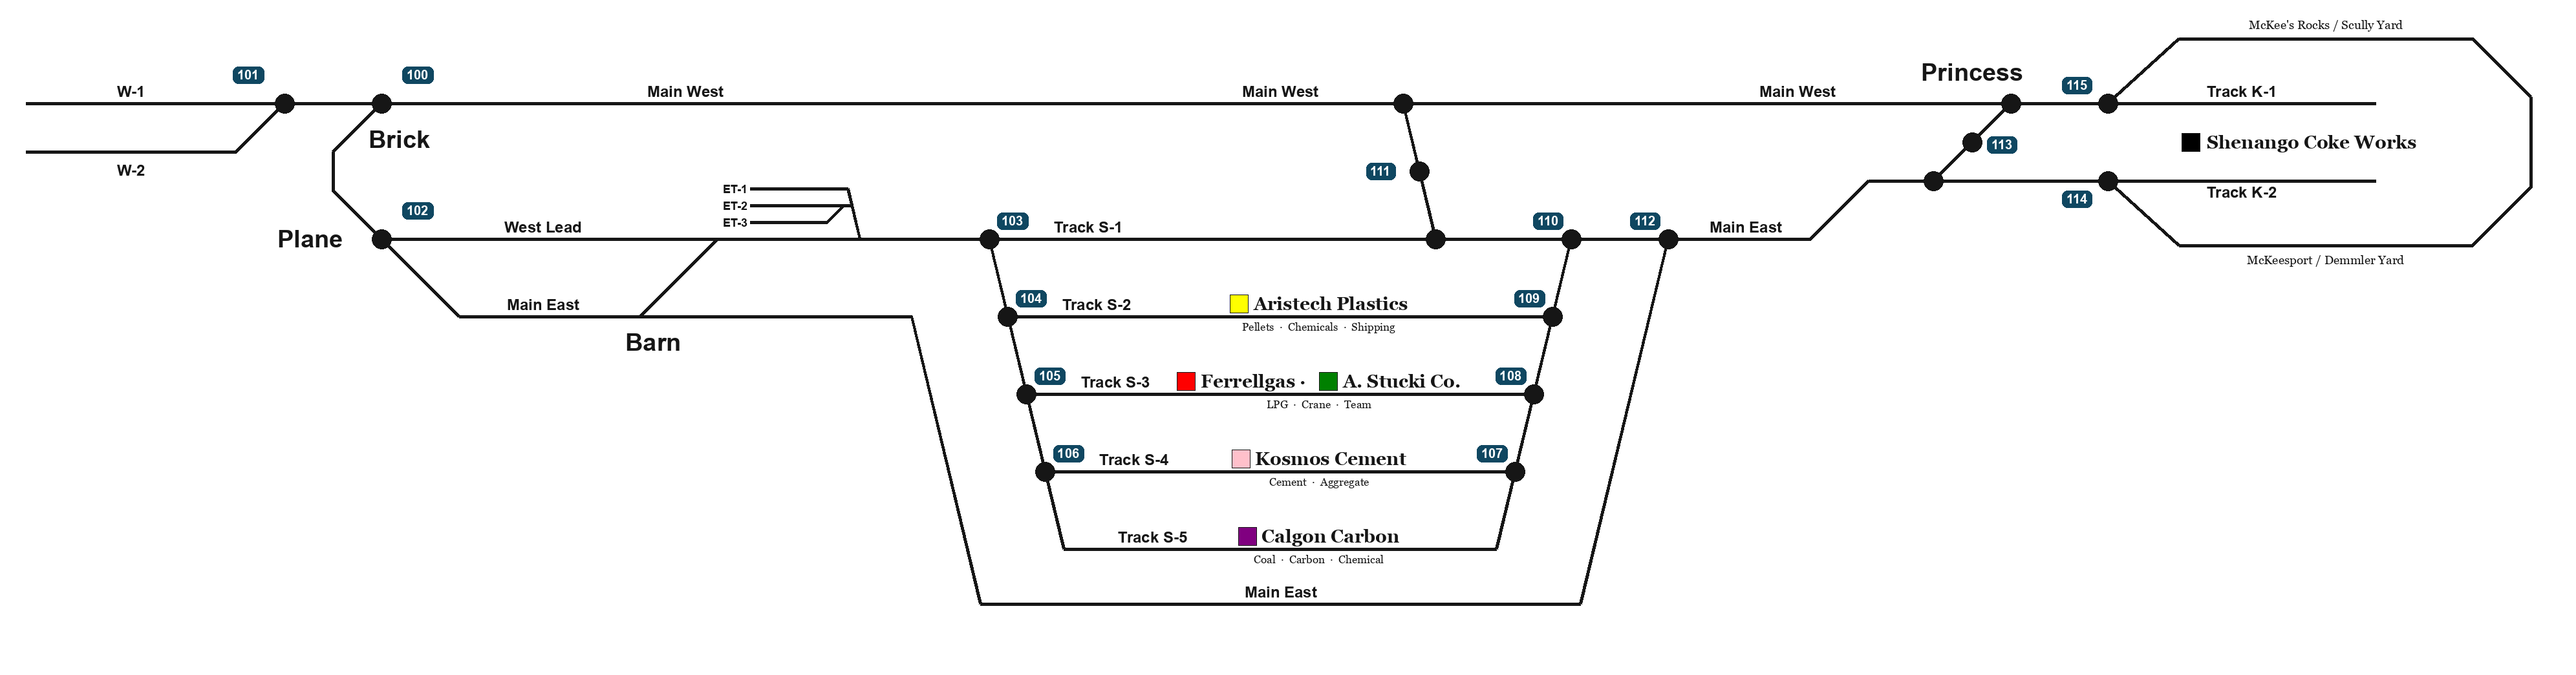
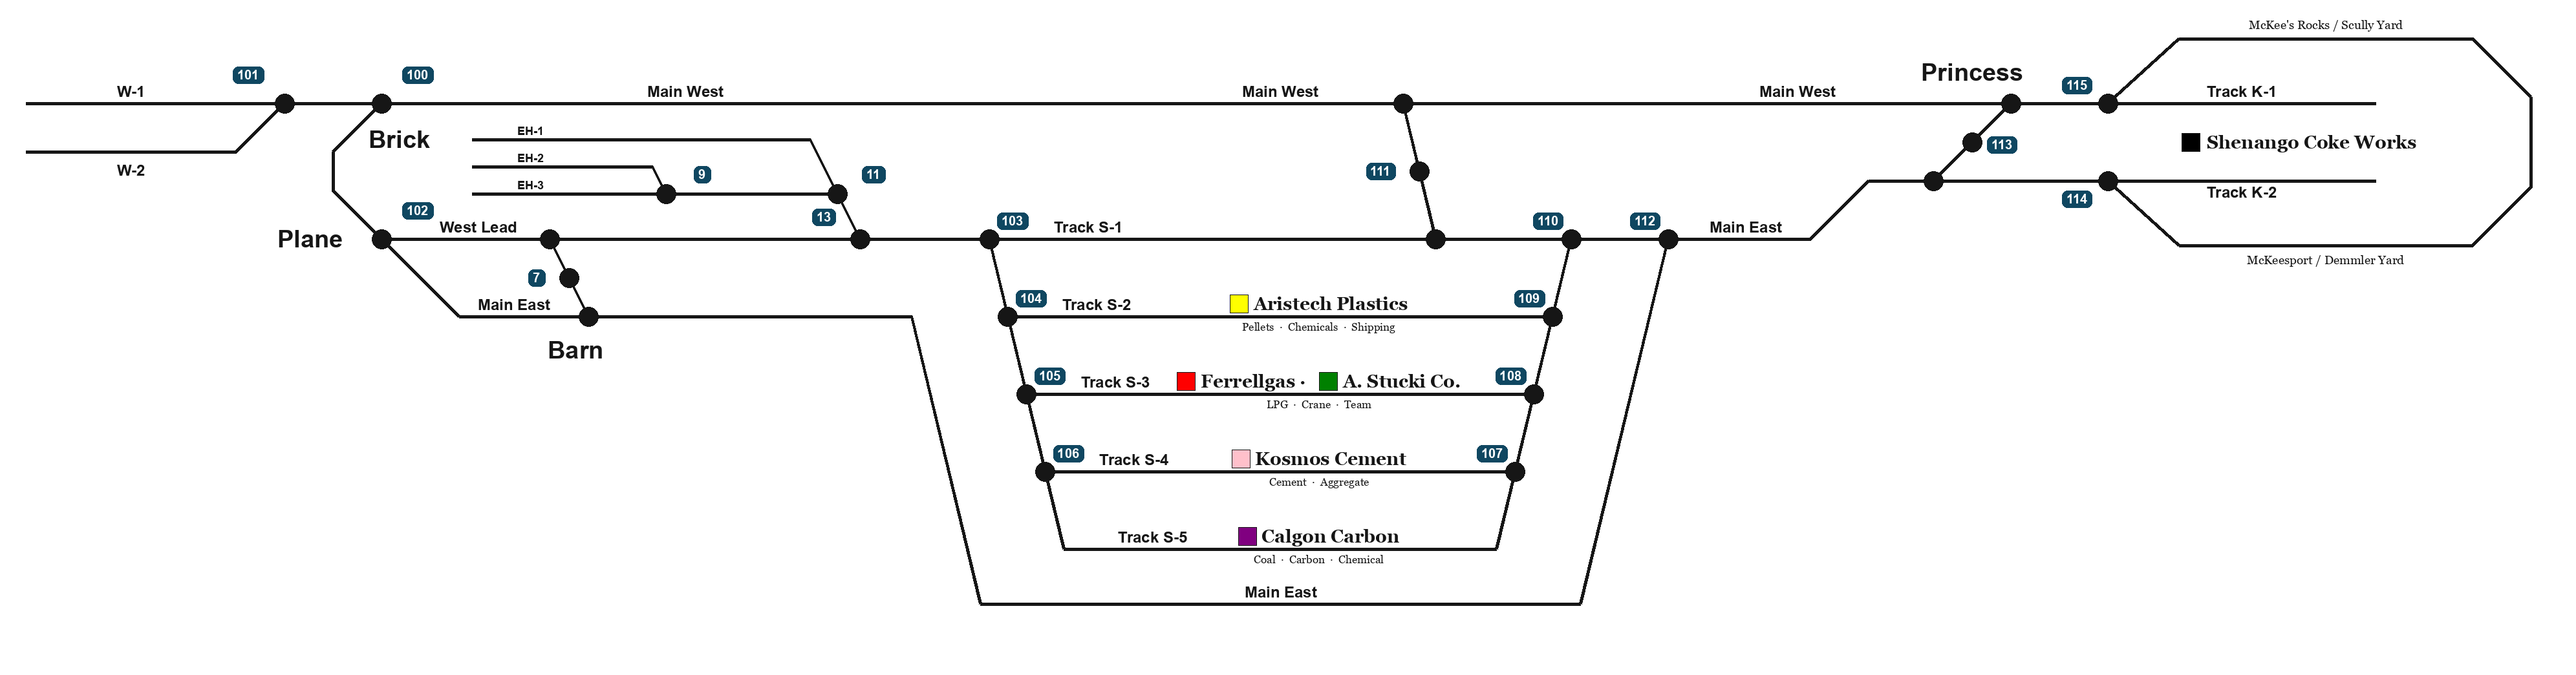
Draw the Barn on the stitched map as on its own sheet, with the switch 7, 9, 11 and 13 spots and EH-1 to EH-3, and link 110 to 112.

Changed region(s): [[0.1867, 0.245, 0.3424, 0.3675], [0.1867, 0.3981, 0.2801, 0.5512], [0.1867, 0.1837, 0.3112, 0.2144]]

diff --git a/ops/hart-ops/publications/rebuild_station_map_full.py b/ops/hart-ops/publications/rebuild_station_map_full.py
@@ -64,8 +64,6 @@ def main() -> None:
     x101 = 440
     xb = x101 + 150  # Brick
     s_leg, vert = 75, 60  # Brick lead: down-left, down, down-right to Plane
-    barn_bot_x = xb + 400
-    barn_top_x = barn_bot_x + 120
     takeoff_x = xb + 740
     x103 = takeoff_x + 200
     turn_x = x103 - 120  # Main East leaves its high row
@@ -134,31 +132,43 @@ def main() -> None:
     line((x110, S[0]), (x112, S[0]))  # S-1 links 110 to 112
     line(plane, me_corner)
     line(me_corner, (turn_x, me_hi))
-    lab((xb + 250, S[0] - 18), "West Lead", track_font)
-    lab((xb + 250, me_hi - 18), "Main East", track_font)
+    lab((xb + 150, S[0] - 18), "West Lead", track_font)
+    lab((xb + 205, me_hi - 18), "Main East", track_font)
 
-    # Barn crossover
-    line((barn_top_x, S[0]), (barn_bot_x, me_hi))
-    lab((barn_bot_x + 20, me_hi + 40), "Barn", cp_font)
+    # ── Barn (SM-06): switch 7 crossover, 13 / 11 / 9, EH-1 to EH-3 ─────
+    x7 = xb + 260
+    sw7_top = (x7, S[0])
+    sw7_bot = (x7 + (me_hi - S[0]) * 0.5, me_hi)
+    sw7_mid = ((sw7_top[0] + sw7_bot[0]) / 2, (sw7_top[1] + sw7_bot[1]) / 2)
+    line(sw7_top, sw7_bot)
+    for p in (sw7_top, sw7_mid, sw7_bot):
+        dot(p)
+    badge((sw7_mid[0] - 50, sw7_mid[1]), "7")
+    lab((sw7_mid[0] + 10, me_hi + 52), "Barn", cp_font)
 
-    # ── South Yard ───────────────────────────────────────────────────────
-    # Engine terminal ladder off the West Lead
-    gap = 26
-    et = {3: S[0] - gap, 2: S[0] - 2 * gap, 1: S[0] - 3 * gap}
+    eh = {3: S[0] - 70, 2: S[0] - 112, 1: S[0] - 154}
+    x_eh = xb + 140
 
-    def et_x(y):
-        return takeoff_x - (S[0] - y) * K
+    def up_left(p, y):
+        return (p[0] + 0.5 * (y - p[1]), y)
 
-    line((takeoff_x, S[0]), (et_x(et[1]), et[1]))
-    stub_end = takeoff_x - 170
-    for n in (1, 2):
-        line((et_x(et[n]), et[n]), (stub_end, et[n]))
-        lab((stub_end - 4, et[n]), f"ET-{n}", et_font, "rm")
-    spur = (et_x(et[2]) - 12, et[2])
-    et3x = spur[0] - gap
-    line(spur, (et3x, et[3]))
-    line((et3x, et[3]), (stub_end, et[3]))
-    lab((stub_end - 4, et[3]), "ET-3", et_font, "rm")
+    sw13 = (takeoff_x, S[0])
+    sw11 = up_left(sw13, eh[3])
+    eh1_join = up_left(sw13, eh[1])
+    sw9 = (takeoff_x - 300, eh[3])
+    eh2_join = up_left(sw9, eh[2])
+    line((x_eh, eh[1]), eh1_join)
+    line((x_eh, eh[2]), eh2_join)
+    line((x_eh, eh[3]), sw11)
+    line(sw13, eh1_join)
+    line(eh2_join, sw9)
+    for p in (sw13, sw11, sw9):
+        dot(p)
+    badge((sw13[0] - 56, S[0] - 34), "13")
+    badge((sw11[0] + 56, sw11[1] - 30), "11")
+    badge((sw9[0] + 56, sw9[1] - 30), "9")
+    for n in (1, 2, 3):
+        lab((x_eh + 70, eh[n] - 14), f"EH-{n}", et_font, "lm")
 
     # Yard ladder 103-106 (down-right)
     top = (x103, S[0])

diff --git a/ops/hart-ops/publications/rebuild_station_map_full_square.py b/ops/hart-ops/publications/rebuild_station_map_full_square.py
@@ -63,8 +63,6 @@ def main() -> None:
     x101 = 330
     xb = x101 + 150  # Brick
     s_leg, vert = 75, 60
-    barn_bot_x = xb + 340
-    barn_top_x = barn_bot_x + 120
     takeoff_x = xb + 640
     x103 = takeoff_x + 170
     turn_x = x103 - 120
@@ -131,29 +129,43 @@ def main() -> None:
     line((x110, S[0]), (x112, S[0]))  # S-1 links 110 to 112
     line(plane, me_corner)
     line(me_corner, (turn_x, me_hi))
-    lab((xb + 220, S[0] - 18), "West Lead", track_font)
-    lab((xb + 200, me_hi - 18), "Main East", track_font)
+    lab((xb + 150, S[0] - 18), "West Lead", track_font)
+    lab((xb + 205, me_hi - 18), "Main East", track_font)
 
-    line((barn_top_x, S[0]), (barn_bot_x, me_hi))
-    lab((barn_bot_x + 20, me_hi + 40), "Barn", cp_font)
+    # ── Barn (SM-06): switch 7 crossover, 13 / 11 / 9, EH-1 to EH-3 ─────
+    x7 = xb + 260
+    sw7_top = (x7, S[0])
+    sw7_bot = (x7 + (me_hi - S[0]) * 0.5, me_hi)
+    sw7_mid = ((sw7_top[0] + sw7_bot[0]) / 2, (sw7_top[1] + sw7_bot[1]) / 2)
+    line(sw7_top, sw7_bot)
+    for p in (sw7_top, sw7_mid, sw7_bot):
+        dot(p)
+    badge((sw7_mid[0] - 50, sw7_mid[1]), "7")
+    lab((sw7_mid[0] + 10, me_hi + 52), "Barn", cp_font)
 
-    # ── South Yard ───────────────────────────────────────────────────────
-    gap = 26
-    et = {3: S[0] - gap, 2: S[0] - 2 * gap, 1: S[0] - 3 * gap}
+    eh = {3: S[0] - 70, 2: S[0] - 112, 1: S[0] - 154}
+    x_eh = xb + 140
 
-    def et_x(y):
-        return takeoff_x - (S[0] - y) * K
+    def up_left(p, y):
+        return (p[0] + 0.5 * (y - p[1]), y)
 
-    line((takeoff_x, S[0]), (et_x(et[1]), et[1]))
-    stub_end = takeoff_x - 150
-    for n in (1, 2):
-        line((et_x(et[n]), et[n]), (stub_end, et[n]))
-        lab((stub_end - 4, et[n]), f"ET-{n}", et_font, "rm")
-    spur = (et_x(et[2]) - 12, et[2])
-    et3x = spur[0] - gap
-    line(spur, (et3x, et[3]))
-    line((et3x, et[3]), (stub_end, et[3]))
-    lab((stub_end - 4, et[3]), "ET-3", et_font, "rm")
+    sw13 = (takeoff_x, S[0])
+    sw11 = up_left(sw13, eh[3])
+    eh1_join = up_left(sw13, eh[1])
+    sw9 = (takeoff_x - 300, eh[3])
+    eh2_join = up_left(sw9, eh[2])
+    line((x_eh, eh[1]), eh1_join)
+    line((x_eh, eh[2]), eh2_join)
+    line((x_eh, eh[3]), sw11)
+    line(sw13, eh1_join)
+    line(eh2_join, sw9)
+    for p in (sw13, sw11, sw9):
+        dot(p)
+    badge((sw13[0] - 56, S[0] - 34), "13")
+    badge((sw11[0] + 56, sw11[1] - 30), "11")
+    badge((sw9[0] + 56, sw9[1] - 30), "9")
+    for n in (1, 2, 3):
+        lab((x_eh + 70, eh[n] - 14), f"EH-{n}", et_font, "lm")
 
     top = (x103, S[0])
     bot = (x103 + 4 * G * K, S[4])
